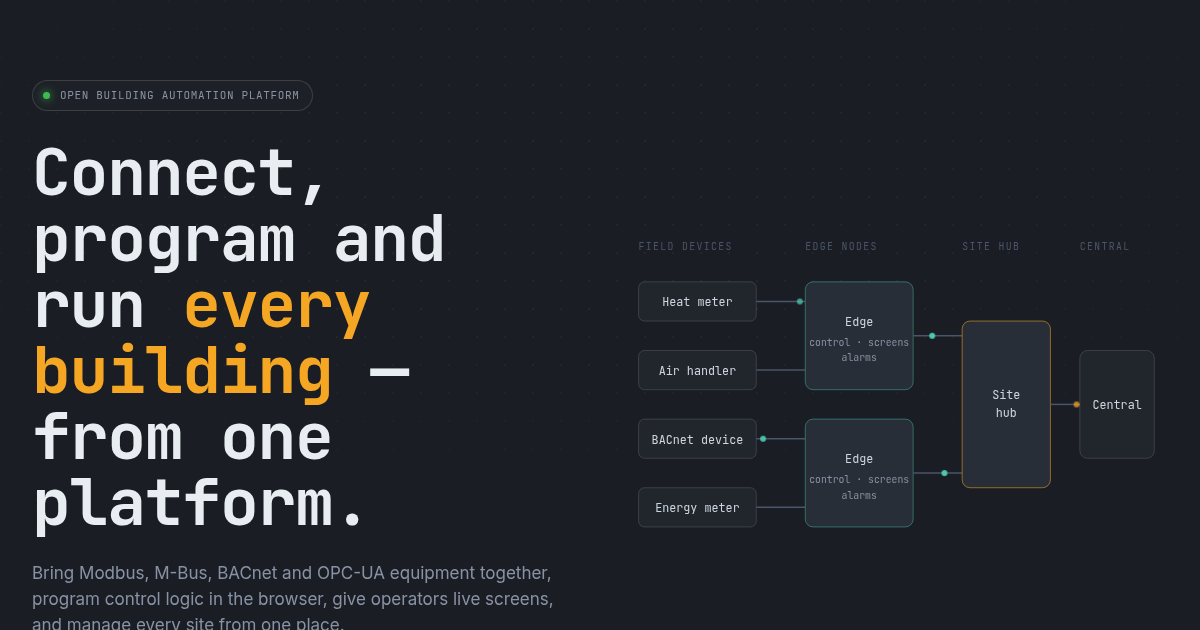
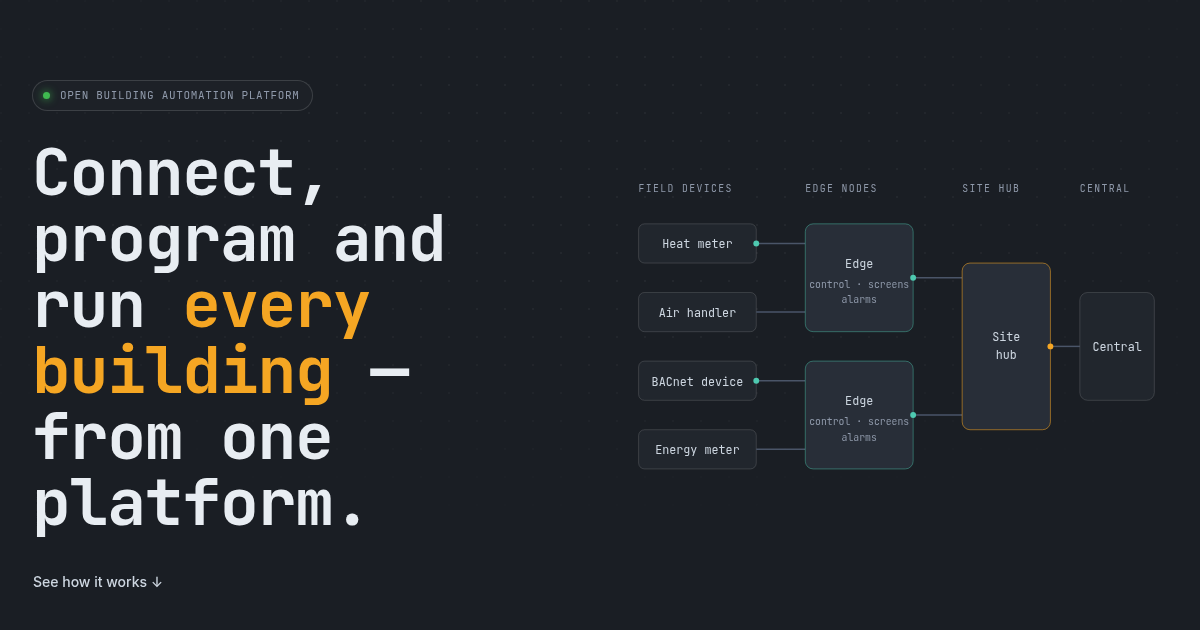
fix: final-review copy tightening, og image, resize re-centre, dead CSS
- 'Zero-touch onboarding' -> 'Onboarding by claim' (C19 covers announce + claim only)
- 'live values on the wires' (C8), 'its applications deploy' (C19),
  'by default' on the C27 retention figures
- og.png without the clipped sub-line, captured with the web fonts loaded
- re-centre the mobile diagram only when the width changes (URL bar resize)
- drop unused .pill.muted, .hero-title .dim/.arrow, .panel-card

diff --git a/index.html b/index.html
@@ -125,7 +125,7 @@
       <span class="label"><span class="dot"></span>02 · PLC in the browser</span>
       <h2>IEC 61131-3. <span class="pink">No install.</span></h2>
       <!-- C7, C8, C13 -->
-      <p class="lead">Write control logic in Function Block Diagram or Structured Text, deploy it to the edge from the browser, and debug it online with live values on every wire.</p>
+      <p class="lead">Write control logic in Function Block Diagram or Structured Text, deploy it to the edge from the browser, and debug it online with live values on the wires.</p>
       <ul class="facts">
         <li>Function Block Diagram and Structured Text</li>                                        <!-- C7 -->
         <li>Online debugging with live values and forcing</li>                                     <!-- C8 -->
@@ -181,9 +181,9 @@
       <span class="label"><span class="dot"></span>04 · Fleet &amp; updates</span>
       <h2>Plug in a box. <span class="accent">Claim it. Done.</span></h2>
       <!-- C19, C20 -->
-      <p class="lead">New edge nodes announce themselves; you assign them to a customer and site, and the right applications deploy automatically. Updates roll out the same way to every site.</p>
+      <p class="lead">New edge nodes announce themselves; you assign them to a customer and site, and its applications deploy. Updates roll out the same way to every site.</p>
       <ul class="facts">
-        <li>Zero-touch onboarding — a hardware swap is a re-claim into the same slot</li>          <!-- C19 -->
+        <li>Onboarding by claim — a hardware swap is a re-claim into the same slot</li>          <!-- C19 -->
         <li>Staged rollouts: a canary first, then the rest — halting on a failing node, with rollback</li> <!-- C20 -->
         <li>Updates from the release feed are signed and verified before they can be deployed</li>                       <!-- C23, C30 -->
         <li>Downgrades are refused unless explicitly allowed</li>                                   <!-- C21 -->
@@ -249,7 +249,7 @@
       <li>Local control, screens and alarms on every node</li>                                      <!-- C24 -->
       <li>A site hub keeps control and screens running across a site's nodes when the internet is down</li> <!-- C25 -->
       <li>If the hub fails, nodes fall back to a direct cloud link automatically</li>               <!-- C26 -->
-      <li>Central keeps the latest value of every point, 30 days of events and 365 days of alarms</li> <!-- C27 -->
+      <li>Central keeps the latest value of every point, and by default 30 days of events and 365 days of alarms</li> <!-- C27 -->
       <li>Each customer's data is isolated from every other customer's</li>                         <!-- C28 -->
       <li>After a week, a site catches central up in 44 seconds — about 200 kB — because only the latest value of each point crosses the internet</li> <!-- C29: wording as fixed in Task 1 -->
     </ul>

diff --git a/styles.css b/styles.css
@@ -108,7 +108,6 @@
   }
   .pill.pink { background: rgba(232, 121, 160, 0.08); color: var(--pink); border-color: rgba(232, 121, 160, 0.2); }
   .pill.amber { background: var(--accent-dim); color: var(--accent); border-color: rgba(245, 166, 35, 0.25); }
-  .pill.muted { background: rgba(255,255,255,0.04); color: var(--text-muted); border-color: var(--border); }
 
   /* ------- Buttons ------- */
   .btn {
@@ -233,14 +232,6 @@
     color: var(--text-strong);
   }
   h1.hero-title .accent { color: var(--accent); }
-  h1.hero-title .dim { color: var(--text-muted); }
-  h1.hero-title .arrow {
-    display: inline-block;
-    font-family: var(--mono);
-    color: var(--text-muted);
-    font-weight: 400;
-    margin: 0 0.15em;
-  }
   .hero-sub {
     font-size: 17px;
     line-height: 1.55;
@@ -254,15 +245,6 @@
     align-items: center;
     gap: 12px;
     flex-wrap: wrap;
-  }
-  .panel-card {
-    background: var(--surface);
-    border: 1px solid var(--border-strong);
-    border-radius: 8px;
-    box-shadow:
-      0 30px 60px -20px rgba(0,0,0,0.6),
-      0 12px 24px -8px rgba(0,0,0,0.4);
-    overflow: hidden;
   }
   .panel-chrome {
     height: 32px;

diff --git a/main.js b/main.js
@@ -19,7 +19,11 @@ function initWanToggle() {
   // Centre the sideways-scrolling wrapper (instant, no motion); no-op when nothing overflows.
   const centre = () => { if (wrap) wrap.scrollLeft = (wrap.scrollWidth - wrap.clientWidth) / 2; };
   centre();
-  window.addEventListener('resize', centre);
+  // Re-centre only when the width changes: a mobile URL bar showing/hiding fires resize too.
+  let lastWidth = window.innerWidth;
+  window.addEventListener('resize', () => {
+    if (window.innerWidth !== lastWidth) { lastWidth = window.innerWidth; centre(); }
+  });
   btn.addEventListener('click', () => {
     const down = diagram.dataset.wan !== 'down';
     diagram.dataset.wan = down ? 'down' : 'up';
